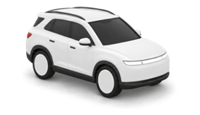
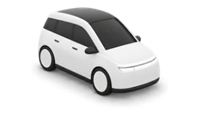
fix(customer-portal): preserve original Choose Service content and theme with no-scroll responsive layout

Changed region(s): [[0.12, 0.2609, 0.87, 0.887], [0.15, 0.0522, 0.72, 0.4957]]

diff --git a/frontend/pages/customer/CustomerPortal.tsx b/frontend/pages/customer/CustomerPortal.tsx
@@ -1261,6 +1261,7 @@ const CustomerPortal: React.FC<CustomerPortalProps> = ({ customer: initialCustom
                     </div>
                 </div>
             )}
+
             {showDriverProfile && selectedDriverOrLead && (
                 <div className="fixed inset-0 bg-black bg-opacity-50 flex items-center justify-center z-50 p-3 sm:p-4">
                     <div className="bg-white rounded-2xl sm:rounded-3xl shadow-2xl w-full max-w-sm sm:max-w-md">
@@ -2019,33 +2020,49 @@ const CustomerPortal: React.FC<CustomerPortalProps> = ({ customer: initialCustom
                                         onClick={() => setOpenDropdown(openDropdown === 'service' ? null : 'service')}
                                         className="w-full bg-gray-100 rounded-lg p-2.5 text-sm font-bold cursor-pointer flex justify-between items-center"
                                     >
-                                        <span>{driverType}</span>
+                                        <div className="flex items-center">
+                                            <div className="w-8 h-8 bg-gray-200 rounded-md mr-2.5 flex items-center justify-center shrink-0">
+                                                <svg className="w-5 h-5 text-gray-500" fill="currentColor" viewBox="0 0 20 20"><path d="M8 16.5a1.5 1.5 0 11-3 0 1.5 1.5 0 013 0zM15 16.5a1.5 1.5 0 11-3 0 1.5 1.5 0 013 0z" /><path d="M3 4a1 1 0 00-1 1v10a1 1 0 001 1h1.05a2.5 2.5 0 014.9 0H10a.75.75 0 01.75.75v.5a.75.75 0 01-.75.75H5a2 2 0 01-2-2V5a1 1 0 00-1-1z" /><path d="M11 16.5c0 .414.336.75.75.75h4.5a2 2 0 002-2V9.5a1 1 0 00-1-1h-2.5A2.5 2.5 0 0112.25 6H9.75a.75.75 0 00-.75.75v9c0 .414.336.75.75.75z" /></svg>
+                                            </div>
+                                            <div className="text-left">
+                                                <h4 className="font-bold text-xs">{driverType}</h4>
+                                                <p className="text-[10px] text-gray-500">Reliable & Verified</p>
+                                            </div>
+                                        </div>
                                         <svg className={`w-4 h-4 transition-transform ${openDropdown === 'service' ? 'rotate-180' : ''}`} fill="none" stroke="currentColor" viewBox="0 0 24 24"><path strokeLinecap="round" strokeLinejoin="round" strokeWidth={2} d="M19 9l-7 7-7-7" /></svg>
                                     </div>
                                     {openDropdown === 'service' && (
-                                        <div className="absolute z-20 w-full mt-1 bg-white rounded-lg shadow-lg border border-gray-200 overflow-hidden max-h-64 overflow-y-auto">
-                                            {[
-                                                BookingType.ACTING,
-                                                BookingType.SPARE,
-                                                BookingType.TEMPORARY,
-                                                BookingType.VALET,
-                                                BookingType.DAILY
-                                            ].map((type) => (
-                                                <div
-                                                    key={type}
-                                                    onClick={() => { setDriverType(type); setOpenDropdown(null); }}
-                                                    className={`flex items-center p-2.5 cursor-pointer hover:bg-gray-50 ${driverType === type ? 'bg-gray-100' : ''}`}
-                                                >
-                                                    <div className="w-8 h-8 bg-gray-200 rounded-md mr-2.5 flex items-center justify-center shrink-0">
-                                                        <svg className="w-5 h-5 text-gray-500" fill="currentColor" viewBox="0 0 20 20"><path d="M8 16.5a1.5 1.5 0 11-3 0 1.5 1.5 0 013 0zM15 16.5a1.5 1.5 0 11-3 0 1.5 1.5 0 013 0z" /><path d="M3 4a1 1 0 00-1 1v10a1 1 0 001 1h1.05a2.5 2.5 0 014.9 0H10a.75.75 0 01.75.75v.5a.75.75 0 01-.75.75H5a2 2 0 01-2-2V5a1 1 0 00-1-1z" /><path d="M11 16.5c0 .414.336.75.75.75h4.5a2 2 0 002-2V9.5a1 1 0 00-1-1h-2.5A2.5 2.5 0 0112.25 6H9.75a.75.75 0 00-.75.75v9c0 .414.336.75.75.75z" /></svg>
+                                        <>
+                                            <div className="fixed inset-0 z-20" onClick={() => setOpenDropdown(null)} />
+                                            <div className="absolute z-30 w-full mt-1 bg-white rounded-lg shadow-lg border border-gray-200 overflow-hidden divide-y divide-gray-100">
+                                                {[
+                                                    BookingType.ACTING,
+                                                    BookingType.SPARE,
+                                                    BookingType.TEMPORARY,
+                                                    BookingType.VALET,
+                                                    BookingType.DAILY
+                                                ].map((type) => (
+                                                    <div
+                                                        key={type}
+                                                        onClick={() => { setDriverType(type); setOpenDropdown(null); }}
+                                                        className={`flex items-center justify-between p-2.5 cursor-pointer hover:bg-gray-50 ${driverType === type ? 'bg-gray-100' : ''}`}
+                                                    >
+                                                        <div className="flex items-center">
+                                                            <div className="w-8 h-8 bg-gray-200 rounded-md mr-2.5 flex items-center justify-center shrink-0">
+                                                                <svg className="w-5 h-5 text-gray-500" fill="currentColor" viewBox="0 0 20 20"><path d="M8 16.5a1.5 1.5 0 11-3 0 1.5 1.5 0 013 0zM15 16.5a1.5 1.5 0 11-3 0 1.5 1.5 0 013 0z" /><path d="M3 4a1 1 0 00-1 1v10a1 1 0 001 1h1.05a2.5 2.5 0 014.9 0H10a.75.75 0 01.75.75v.5a.75.75 0 01-.75.75H5a2 2 0 01-2-2V5a1 1 0 00-1-1z" /><path d="M11 16.5c0 .414.336.75.75.75h4.5a2 2 0 002-2V9.5a1 1 0 00-1-1h-2.5A2.5 2.5 0 0112.25 6H9.75a.75.75 0 00-.75.75v9c0 .414.336.75.75.75z" /></svg>
+                                                            </div>
+                                                            <div>
+                                                                <h4 className="font-bold text-xs">{type}</h4>
+                                                                <p className="text-[10px] text-gray-500">Reliable & Verified</p>
+                                                            </div>
+                                                        </div>
+                                                        {driverType === type && (
+                                                            <svg className="w-4 h-4 text-black mr-2 shrink-0" fill="none" stroke="currentColor" viewBox="0 0 24 24"><path strokeLinecap="round" strokeLinejoin="round" strokeWidth={2.5} d="M5 13l4 4L19 7" /></svg>
+                                                        )}
                                                     </div>
-                                                    <div>
-                                                        <h4 className="font-bold text-xs">{type}</h4>
-                                                        <p className="text-[10px] text-gray-500">Reliable & Verified</p>
-                                                    </div>
-                                                </div>
-                                            ))}
-                                        </div>
+                                                ))}
+                                            </div>
+                                        </>
                                     )}
                                 </div>
                             )}
